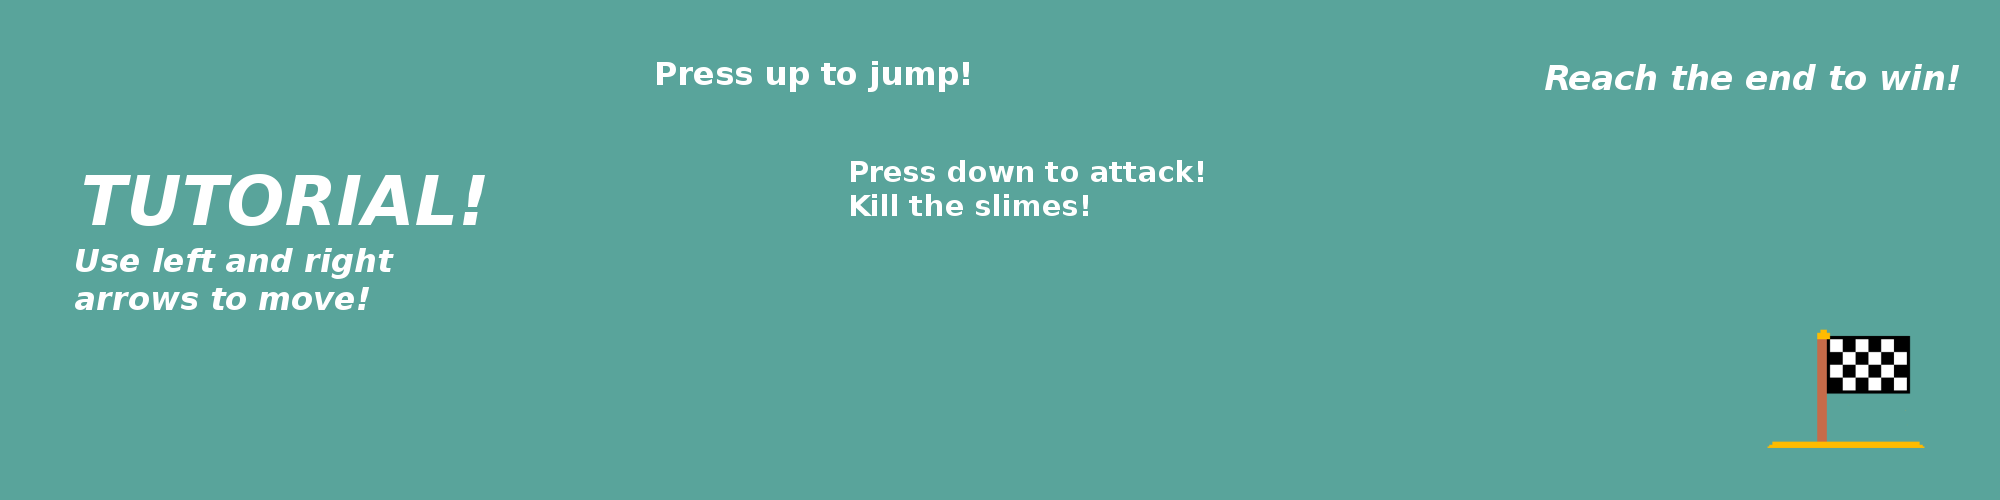
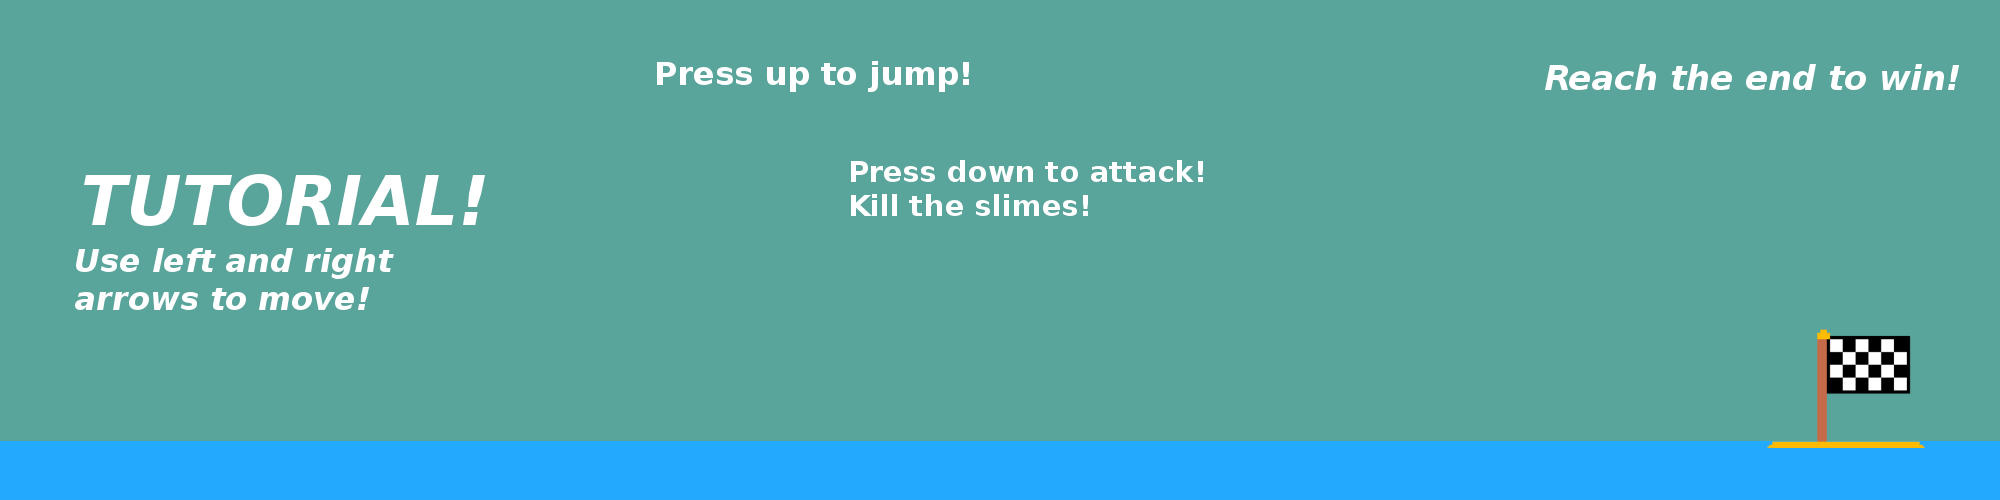
ground

Changed region(s): [[0.0, 0.87, 1.0, 1.0]]

diff --git a/src/js/gamesys.js b/src/js/gamesys.js
@@ -48,7 +48,7 @@ screens[1] = {
             ctx.drawImage(game.gos.objects[i].image, game.gos.objects[i].x - game.gos.objects[0].x + 200, game.gos.objects[i].y - 50)
         }
         ctx.drawImage(game.gos.objects[0].image, 200, game.gos.objects[0].y - 50)
-        ctx.drawImage(document.querySelector("#grass"), 0, 0);
+        // ctx.drawImage(document.querySelector("#grass"), 0, 0); DELETE
         var icowidth_and_spacing = 35; var heart_i = 0;
         while (heart_i < game.gos.objects[0].lives) {
             ctx.drawImage(document.querySelector("#heart"), icowidth_and_spacing * heart_i++ + 10, 10);
